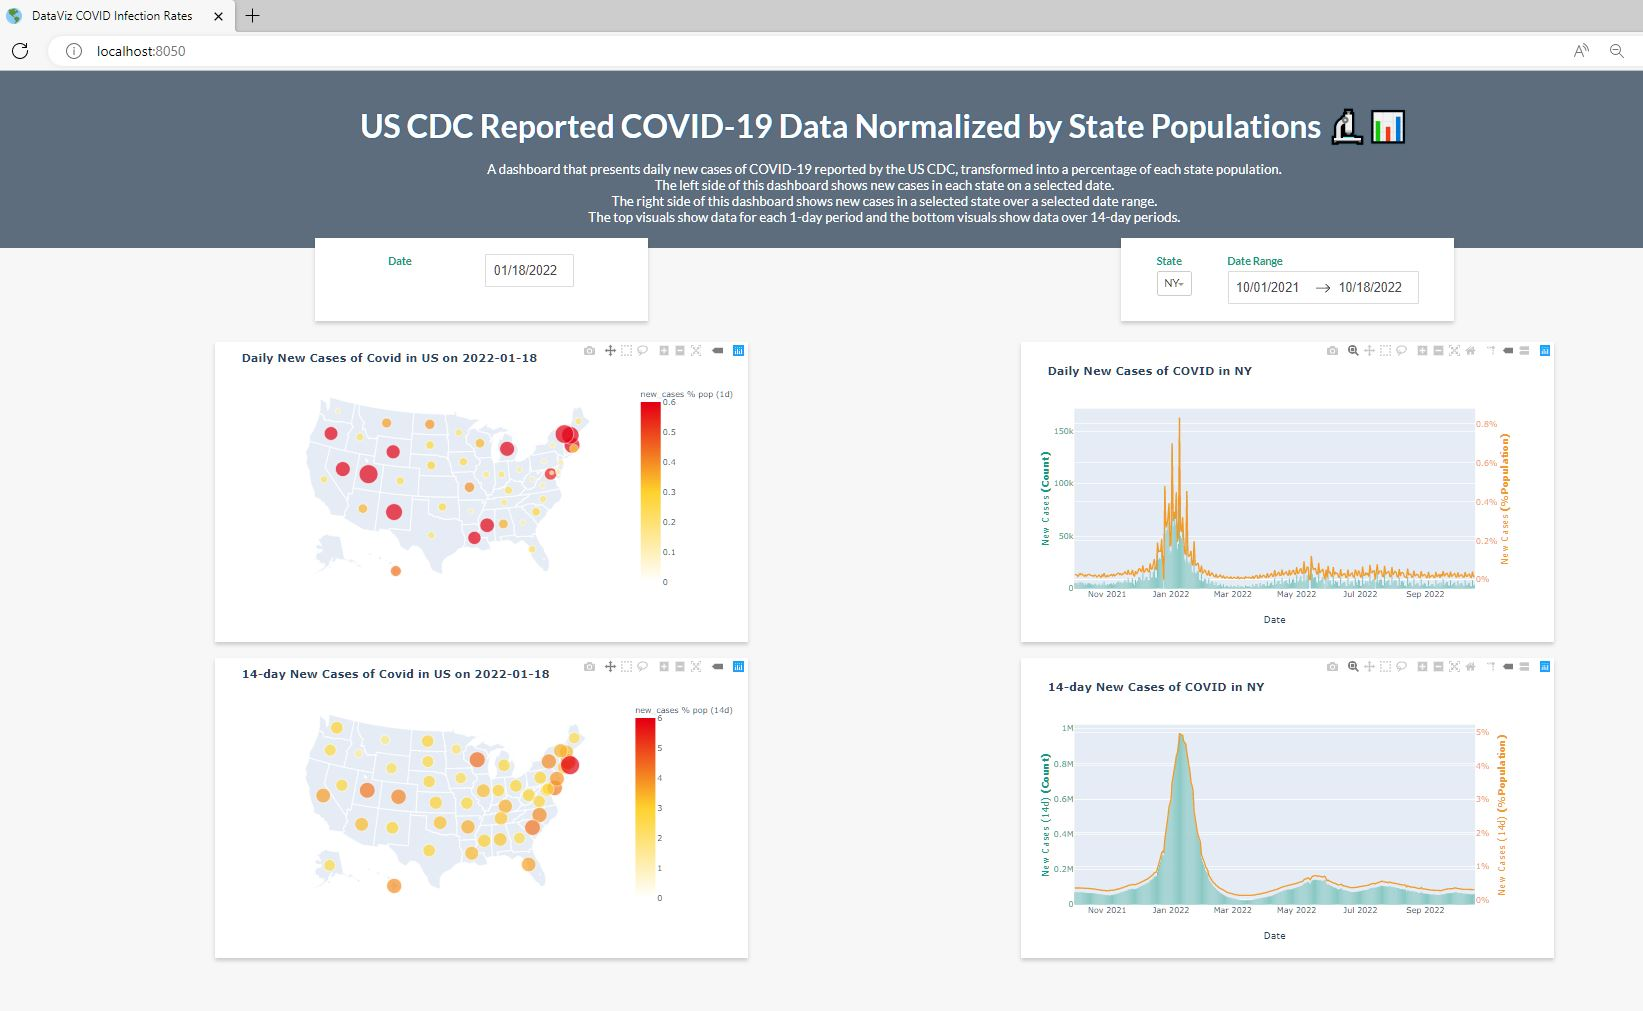
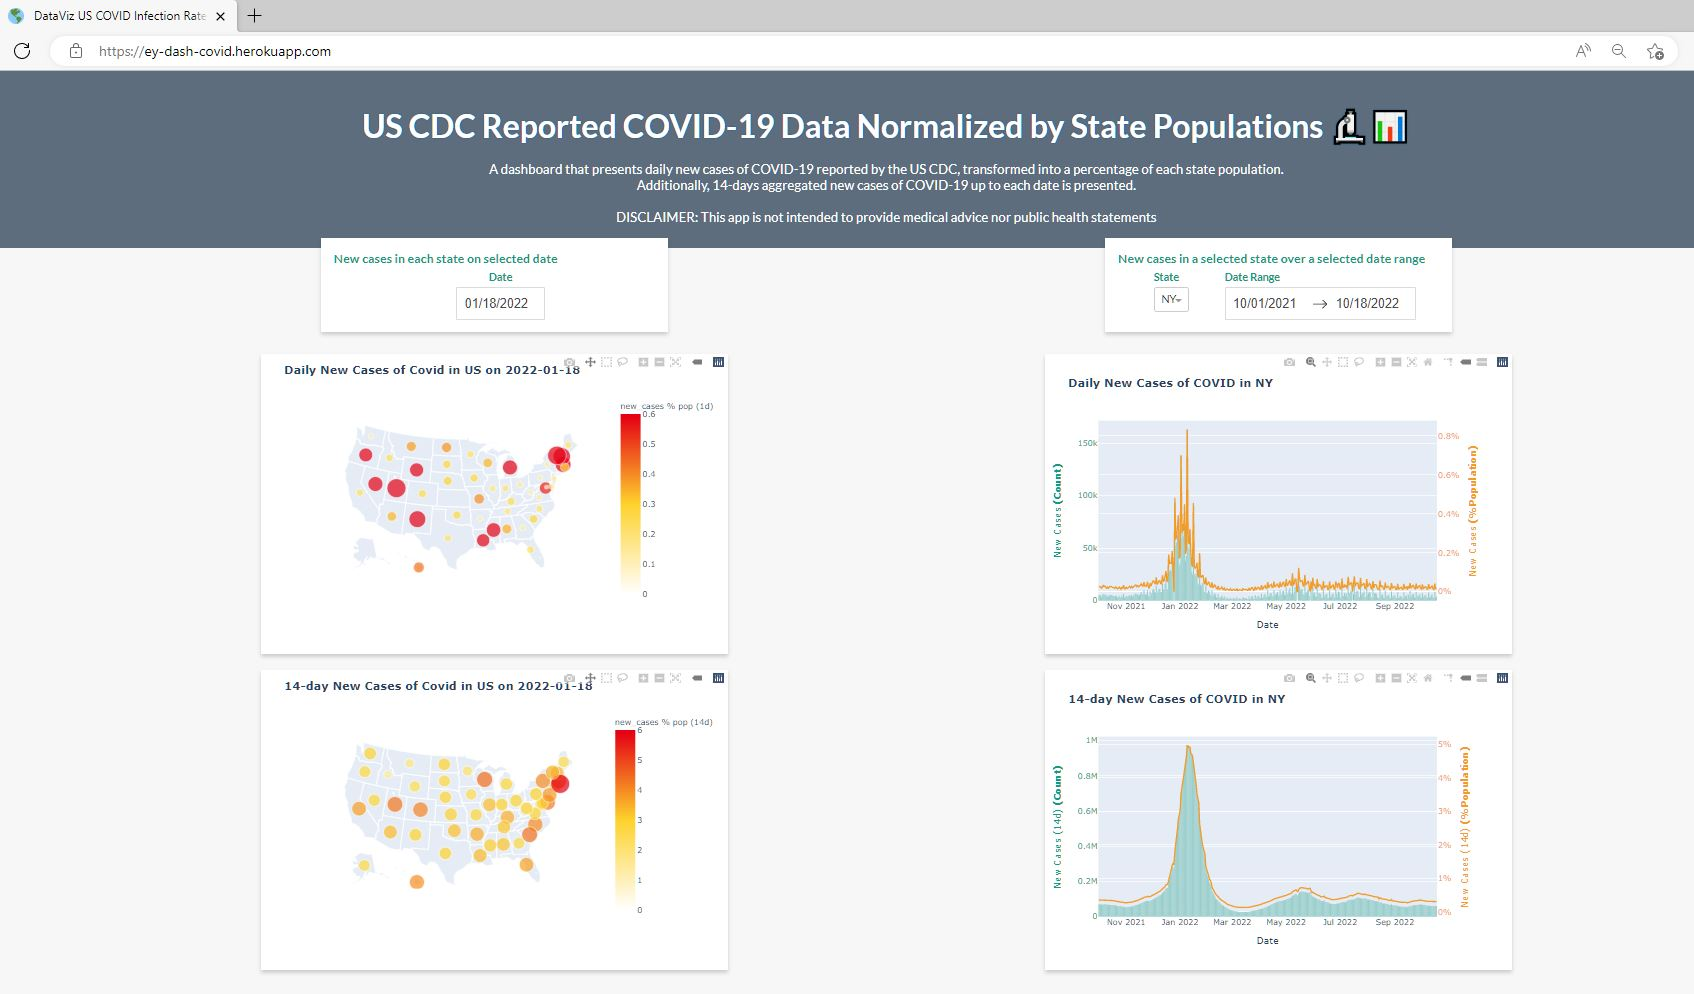
docs: Update README with new Dash dashboard deployed on Heroku

diff --git a/src/covid_dashboard.py b/src/covid_dashboard.py
@@ -272,7 +272,7 @@ def update_charts(date, state, start_date, end_date):
     
     daily_cases_map_figure.update_layout(
             title_text='<b>Daily New Cases of Covid in US on %s</b>'% date,
-            width=800,
+            width=700,
     )
     
 
@@ -294,7 +294,7 @@ def update_charts(date, state, start_date, end_date):
     
     d14_cases_map_figure.update_layout(
             title_text='<b>14-day New Cases of Covid in US on %s</b>'% date,
-            width=800,
+            width=700,
     )
     
     
@@ -312,7 +312,7 @@ def update_charts(date, state, start_date, end_date):
     daily_cases_chart_figure = make_subplots(specs=[[{"secondary_y":True}]])
     daily_cases_chart_figure.update_layout(
             title_text='<b>Daily New Cases of COVID in %s</b>'%state,
-            width=800,
+            width=700,
     )
     daily_cases_chart_figure.update_xaxes(title_text='Date')
     daily_cases_chart_figure.update_yaxes(title_text='New Cases <b>(Count)</b>', secondary_y=False, color=" #079A82")
@@ -351,7 +351,7 @@ def update_charts(date, state, start_date, end_date):
     d14_cases_chart_figure = make_subplots(specs=[[{"secondary_y":True}]])
     d14_cases_chart_figure.update_layout(
             title_text='<b>14-day New Cases of COVID in %s</b>'%state,
-            width=800,
+            width=700,
     )
     d14_cases_chart_figure.update_xaxes(title_text='Date')
     d14_cases_chart_figure.update_yaxes(title_text='New Cases (14d) <b>(Count)</b>', secondary_y=False, color=" #079A82")

diff --git a/README.md b/README.md
@@ -1,9 +1,14 @@
 # Overview
 This repository contains source code, data, and calculated features for visualizing recent COVID-19 cases in the U.S.  
-The transformed data is utilized in Tableau Public for creating dashboards with line graphs, bar charts, and heat maps of COVID-19 cases and deaths.
+The transformed data is uploaded to Tableau Public for creating dashboards with line graphs, bar charts, and heat maps of COVID-19 cases and deaths.
 
-![Tableau Dashboard](/img/CovidDashScreenShot.JPG)
+![Tableau Dashboard](/img/TableauScreenShot.JPG)
 [Link to Dashboard on Tableau Public](https://public.tableau.com/views/US_Covid19_Cases_Percent_Population/Dash14Day?:language=en-US&:display_count=n&:origin=viz_share_link)
+
+*NEW 11/2022* The transformed data is visualized in a Plotly Dash dashboard. The dashboard script `src/covid_dashboard.py` can be deployed on a local server or on a service such as Heroku.
+![Created using Dash](/img/PlotlyDashScreenShot.JPG)
+[Link to Dash dashboard deployed on Heroku](https://ey-dash-covid.herokuapp.com/)
+
 
 # Introduction  
   
@@ -100,8 +105,8 @@ To refresh the Tableau Viz with the lastest CDC COVID-19 Cases data:
 
 
 # Future Improvements 
-- ~~Add scripting to automate refresh of U.S. CDC COVID-19 data.~~  Completed build_dataset.py on Mar-17-2022
-- Interactive analysis using Jupyter Notebook 
+- ~~Add scripting to automate refresh of U.S. CDC COVID-19 data.~~  Completed `src/build_dataset.py` on Mar-17-2022
+- ~~Interactive analysis using Jupyter Notebook .~~ Completed Plotly Dash dashboard in `src/covid_dashboard.py` on Nov-21-2022
 
 # License
 
